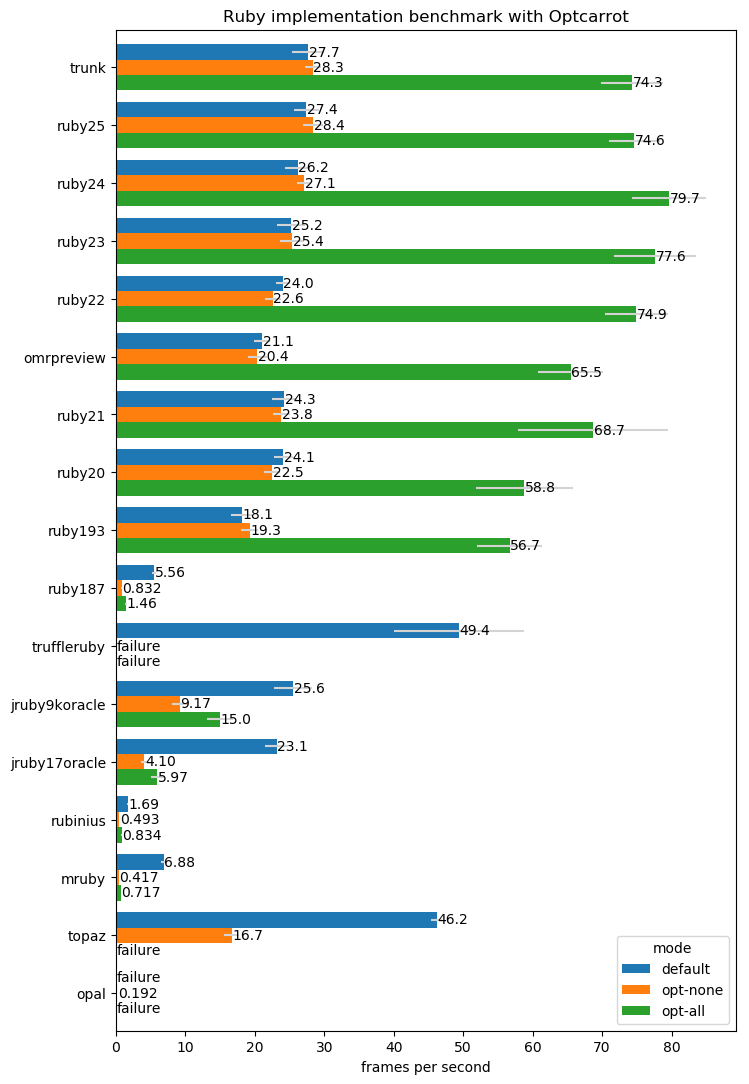
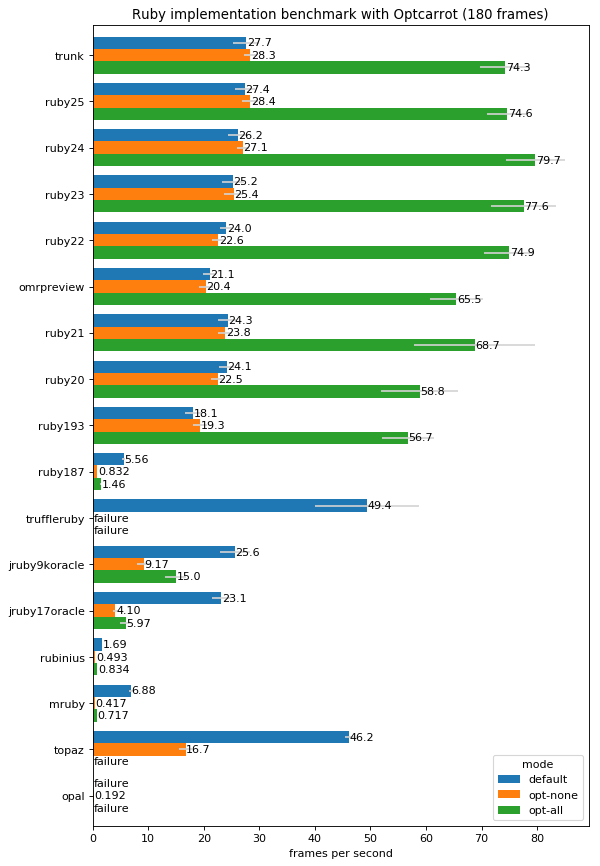
Make the charts a bit smaller

Changed region(s): [[0.0, 0.0, 0.99, 0.9977], [0.81, 0.1247, 0.93, 0.1871]]

diff --git a/tools/plot.rb b/tools/plot.rb
@@ -47,7 +47,7 @@ pyimport "matplotlib.pyplot", as: "plt"
       summary ? "doc/benchmark-summary.png" : "doc/benchmark-full.png"
     :
       "doc/startup-time.png"
-    plt.savefig(f, bbox_inches: "tight")
+    plt.savefig(f, dpi: 80, bbox_inches: "tight")
     plt.close()
   end
 end
@@ -58,6 +58,6 @@ fps_df = fps_df[PyCall::List.new(["ruby25", "ruby20", "truffleruby", "jruby9kora
   ax = df_.plot(title: "fps history (up to #{ PyCall.len(df_) } frames)", figsize: [8, 6])
   ax.set_xlabel("frames")
   ax.set_ylabel("frames per second")
-  plt.savefig("doc/fps-history-#{ PyCall.len(df_) }.png", bbox_inches: "tight")
+  plt.savefig("doc/fps-history-#{ PyCall.len(df_) }.png", dpi: 80, bbox_inches: "tight")
   plt.close
 end
